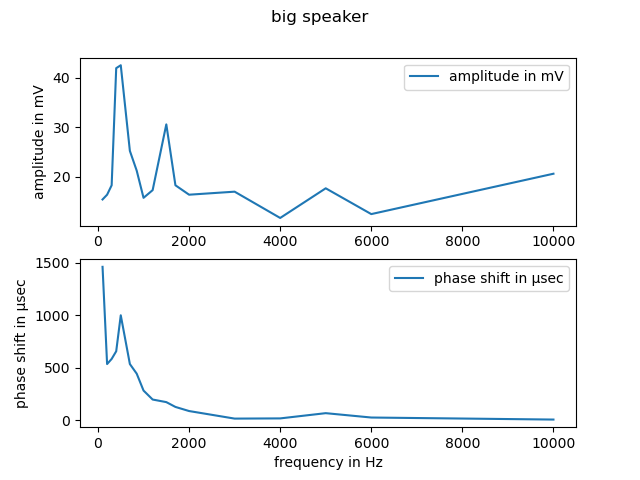
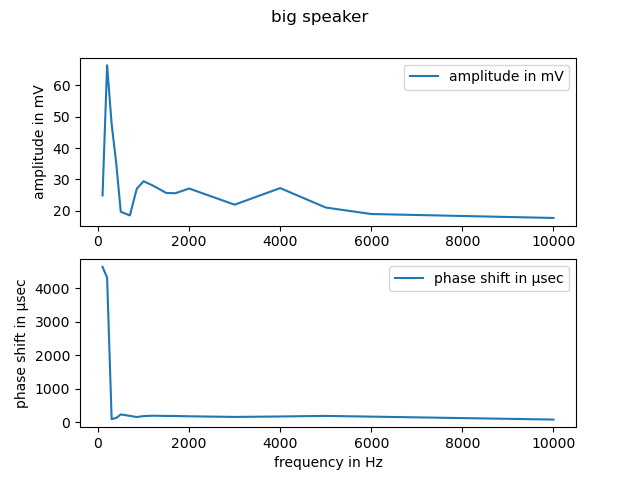
use other measurements

diff --git a/Versuche/3/2.2.py b/Versuche/3/2.2.py
@@ -3,23 +3,21 @@ import numpy as np
 import data.measurements as data
 
 if __name__ == '__main__':
-    # _amplitudeLarge = [20 * np.log10(1 / data.amplitude_big[x])
-    _amplitudeLarge = [20 * np.log10(0.001 * data.amplitude_big[x]/data.peak_b_big[x])
-                       for x in range(0, len(data.amplitude_big))]
+    _amplitude_big = [20 * np.log10(1 / data.amplitude_big[x])
+                      for x in range(0, len(data.amplitude_big))]
 
-    # _amplitudeSmall = [20 * np.log10(1 / data.amplitude_small[x])
-    _amplitudeSmall = [20 * np.log10(0.001 * data.amplitude_small[x]/data.peak_b_small[x])
-                       for x in range(0, len(data.amplitude_small))]
+    _amplitude_small = [20 * np.log10(1 / data.amplitude_small[x])
+                        for x in range(0, len(data.amplitude_small))]
 
     # −∆t * f * 360
-    _phaseShiftLarge = [(data.phase_shift_big[x]/1000000 * -1) * data.freq[x] * 360
+    _phase_shift_big = [(data.phase_shift_big[x] / 1000000 * -1) * data.freq[x] * 360
                         for x in range(0, len(data.phase_shift_big))]
 
-    _phaseShiftSmall = [(data.phase_shift_small[x]/1000000 * -1) * data.freq[x] * 360
-                        for x in range(0, len(data.phase_shift_small))]
+    _phase_shift_small = [(data.phase_shift_small[x] / 1000000 * -1) * data.freq[x] * 360
+                          for x in range(0, len(data.phase_shift_small))]
 
-    plt.plot(data.freq, _amplitudeSmall, 'b', label='small speaker')
-    plt.plot(data.freq, _amplitudeLarge, 'y', label='big speaker')
+    plt.plot(data.freq, _amplitude_small, 'b', label='small speaker')
+    plt.plot(data.freq, _amplitude_big, 'y', label='big speaker')
     plt.title('Bode Amplitude')
     plt.ylabel('amplitude in dB')
     plt.xlabel('frequency in Hz')
@@ -29,8 +27,8 @@ if __name__ == '__main__':
     plt.savefig('plots/bode_amplitude-frequency.png')
     plt.show()
 
-    plt.plot(data.freq, _phaseShiftSmall, 'b', label='small speaker')
-    plt.plot(data.freq, _phaseShiftLarge, 'y', label='big speaker')
+    plt.plot(data.freq, _phase_shift_small, 'b', label='small speaker')
+    plt.plot(data.freq, _phase_shift_big, 'y', label='big speaker')
     plt.title('Bode Phase-Shift')
     plt.ylabel('phase shift in °')
     plt.xlabel('frequency in Hz')

diff --git a/Versuche/3/data/measurements.py b/Versuche/3/data/measurements.py
@@ -1,16 +1,14 @@
 freq = [100, 200, 300, 400, 500, 700, 850, 1000, 1200,
         1500, 1700, 2000, 3000, 4000, 5000, 6000, 10000]
 
-amplitude_small = [74.44, 79.54, 44.31, 33.59, 27.12, 22.58, 20.03, 18.21,
-                   23.97, 19.96, 16.77, 17.91, 14.41, 20.97, 15.48, 14.96, 14.11]  # in mV
-phase_shift_small = [0, 2465, 1342, 951.7, 732.1, 488.1, 427.1, 314.2,
-                     234.9, 152.5, 137.3, 86.49, 43.47, 25.17, 57.19, 54.14, 24.78]  # in µsec
-peak_b_small = [1565, 1142, 1066, 1057, 1057, 1086, 1071, 1057, 1047,
-                964.4, 973.7, 989.2, 1072, 1074, 1120, 1178, 1403]  # in mV
+amplitude_small = [10.32, 16.76, 22.36, 35.93, 80.57, 37.18, 32.75, 28.81,
+                  34.95, 21.51, 21.2, 25.41, 22.75, 20.81, 15.64, 13.13, 17.99]  # in mV
+phase_shift_small = [3614, 2863, 2269, 1862, 1764, 202.8, 174.4, 212.6,
+                   216.5, 208.2, 173, 169.5, 157.3, 136.8, 162.7, 94.7, 52.64]  # in µsec
+peak_b_small = []  # in mV
 
-amplitude_big = [15.46, 16.42, 18.32, 41.93, 42.52, 25.25, 21.27, 15.79,
-                 17.34, 30.60, 18.32, 16.42, 17.03, 11.73, 17.71, 12.51, 20.65]  # in mV
-phase_shift_big = [1462, 535.2, 584, 657.2, 1000, 535.2, 443.5, 282.4,
-                   196.9, 172.2, 126.4, 87.13, 15.06, 16.97, 66.92, 25.36, 5.91]  # in µsec
-peak_b_big = [1103, 1073, 1086, 1015, 1180, 973.4, 1005, 973.7,
-              1005, 1008, 979.8, 952.9, 977.6, 1022, 1039, 1057, 1161]  # in mV
+amplitude_big = [24.89, 66.47, 47.63, 35.26, 19.68, 18.49, 26.97, 29.42,
+                  28.07, 25.67, 25.59, 27.1, 21.93, 27.23, 21.02, 18.95, 17.69]  # in mV
+phase_shift_big = [4645, 4320, 91, 127, 230, 188.2, 153.9, 181.3,
+                   193.0, 186.2, 183.7, 175.6, 156.3, 170, 186.6, 165.6, 77.59]  # in µsec
+peak_b_large = []  # in mV
